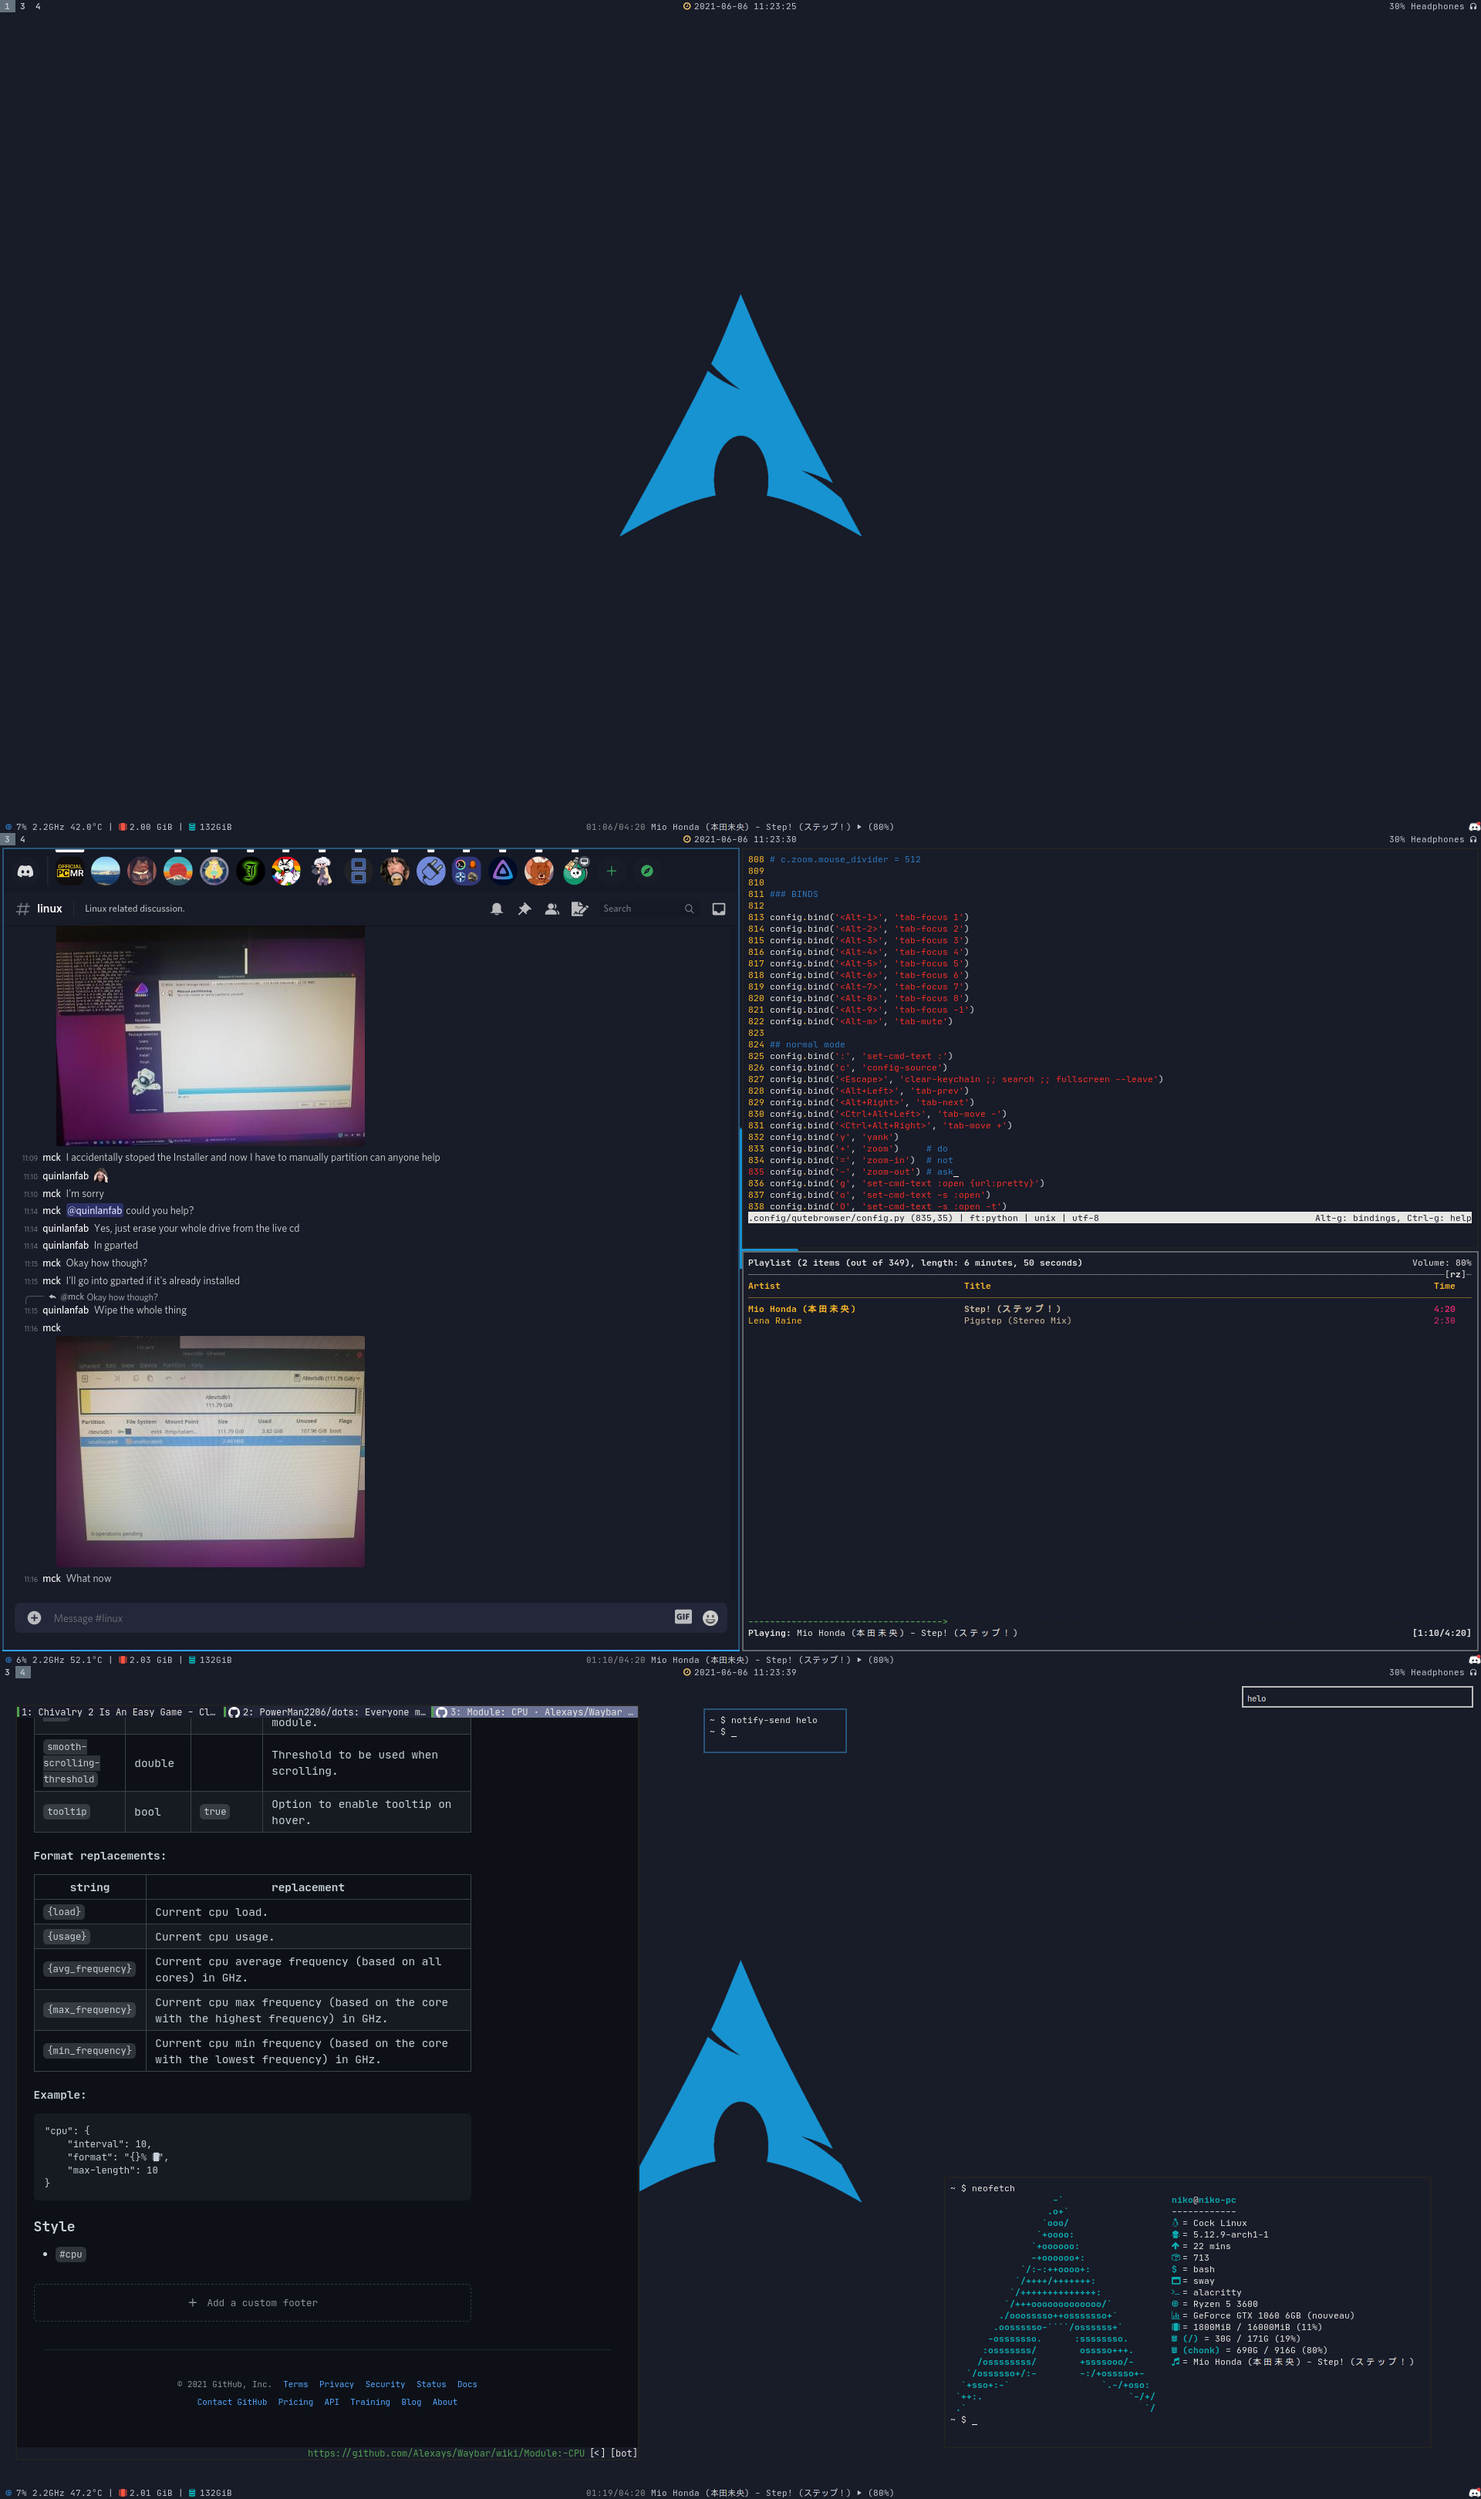
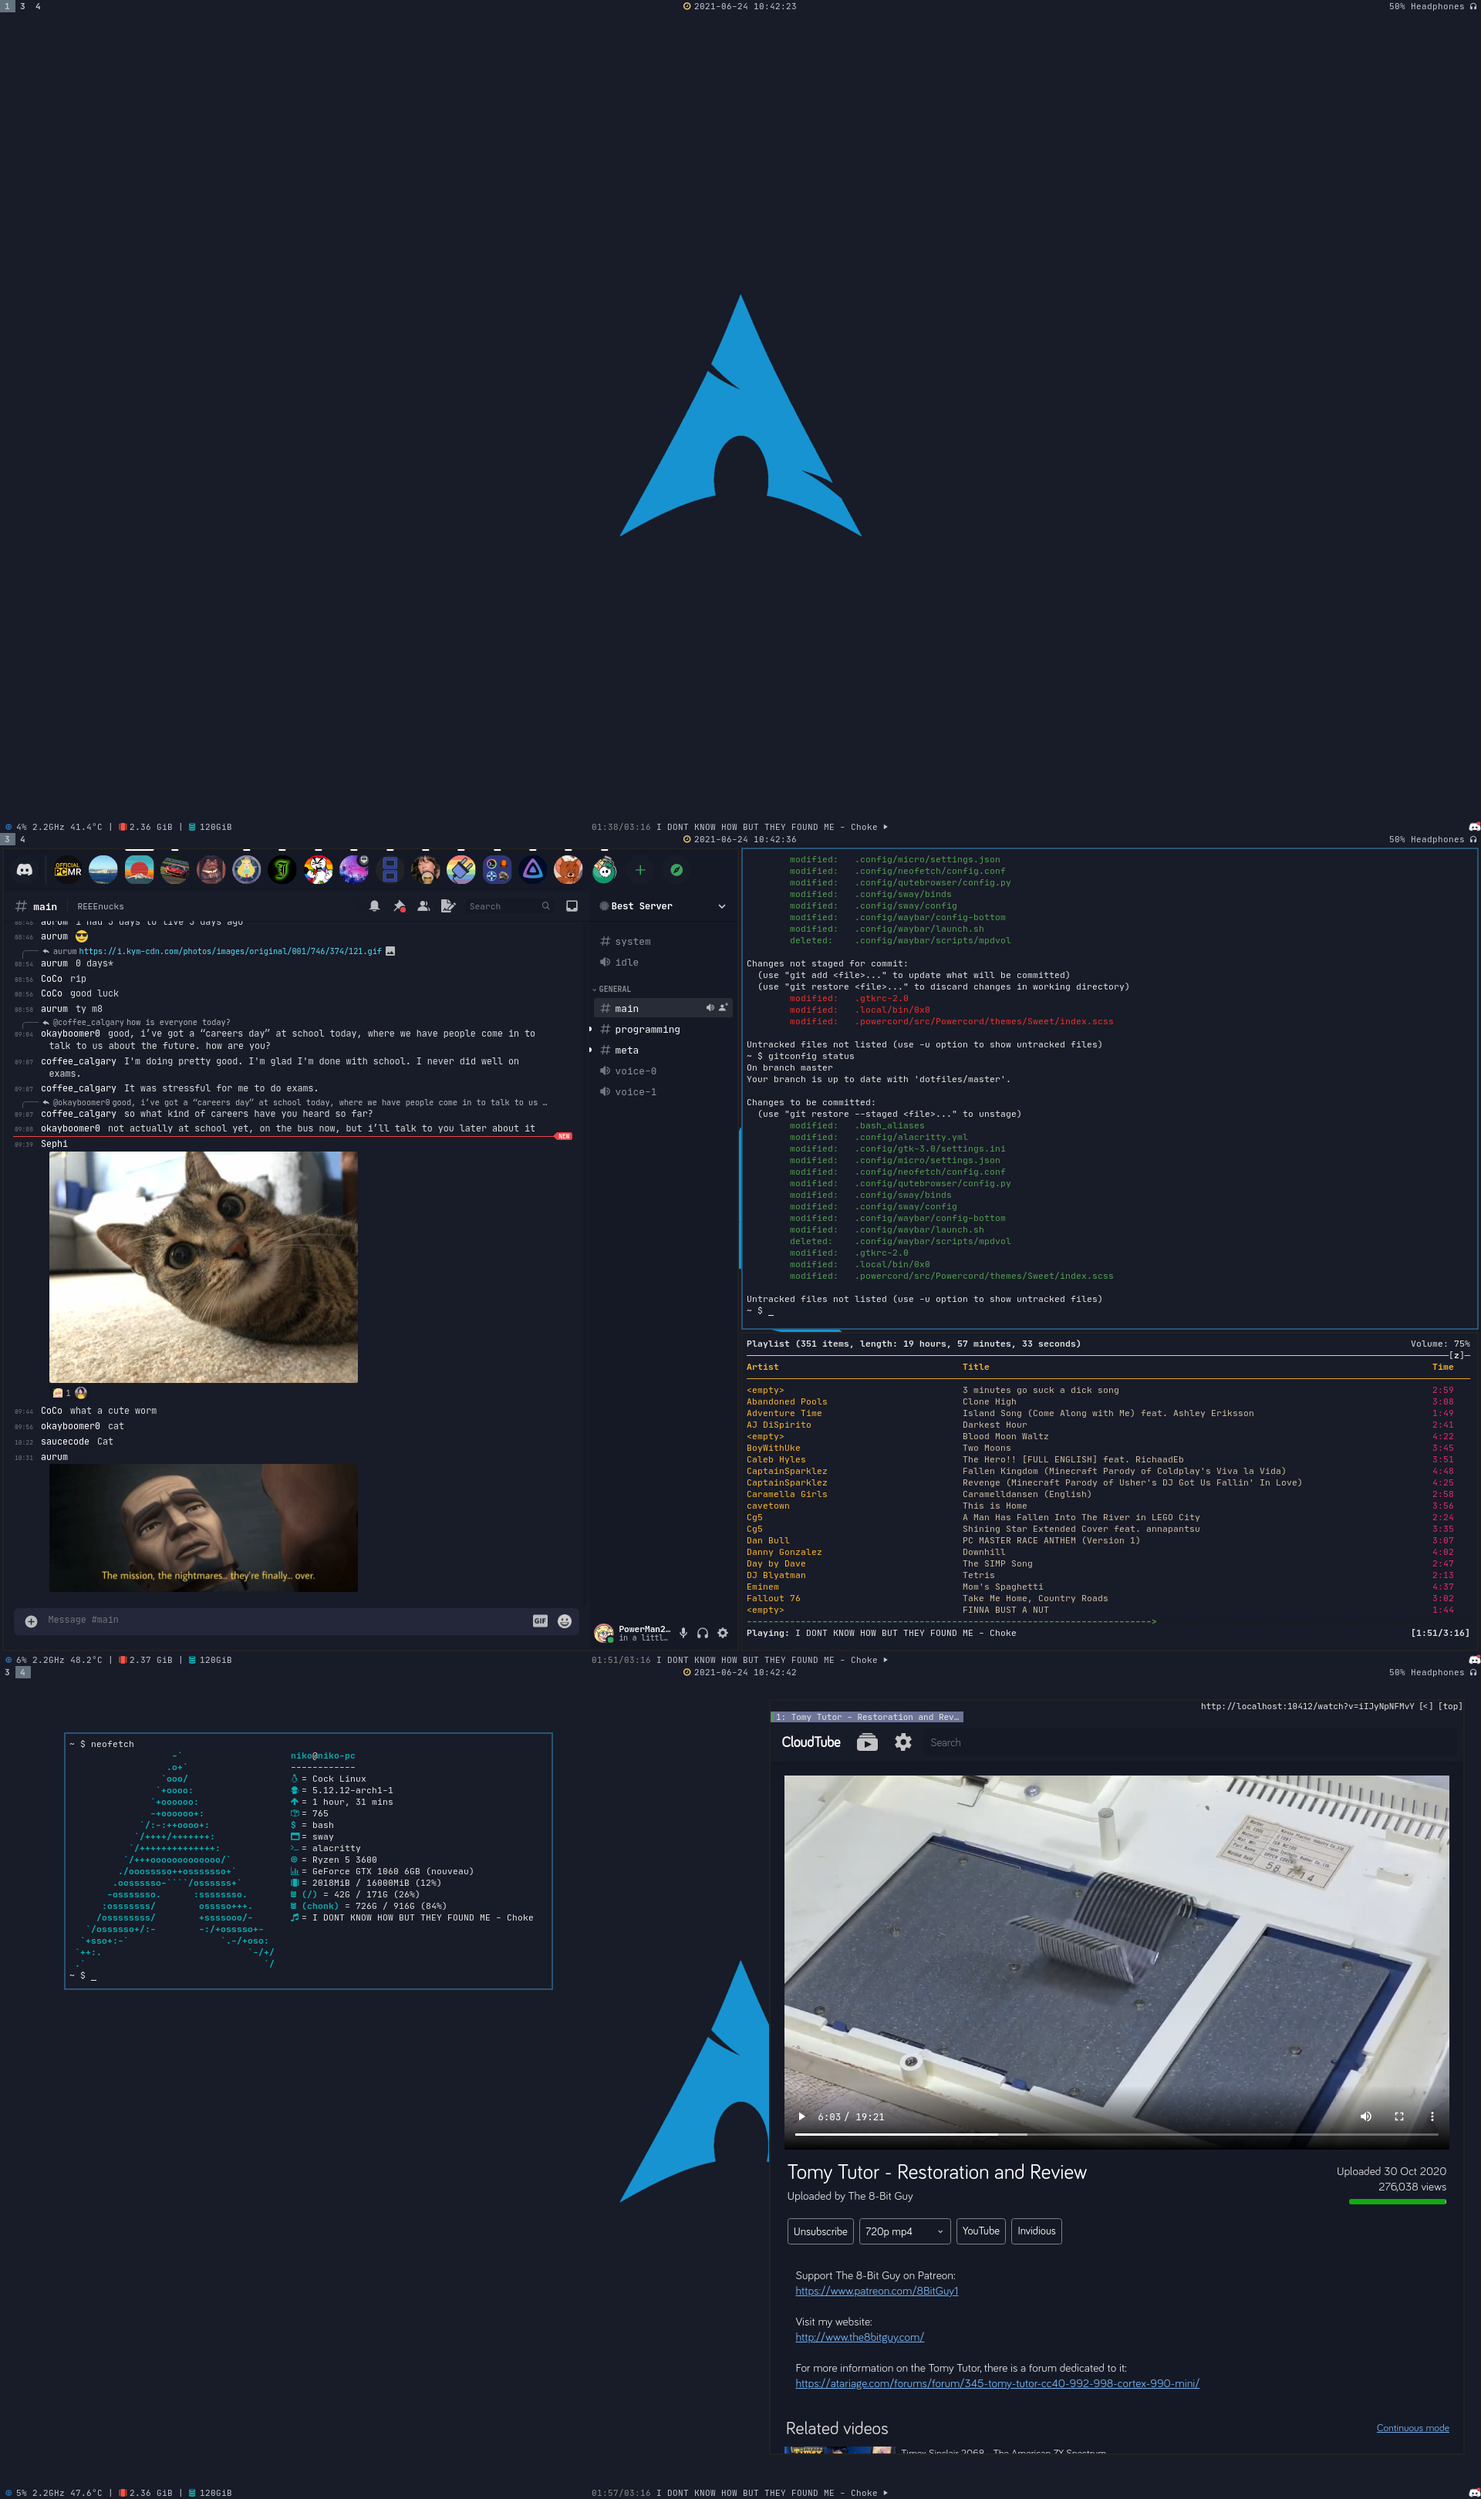
Added a bunch of stuff I was too lazy to do before

diff --git a/.powercord/src/Powercord/themes/Sweet/index.scss b/.powercord/src/Powercord/themes/Sweet/index.scss
@@ -5,17 +5,21 @@
 
 /* Horizontal server list stuff */
 :root {
-    --HSL-server-icon-size: 42px;  /* Size of the server icons | DEFAULT: 40px */
+    --HSL-server-icon-size: 48px;  /* Size of the server icons | DEFAULT: 40px */
     --HSL-server-spacing: 10px;  /* Spacing between each server icon | DEFAULT: 10px */	
 }
 
-/* Right channels 
+* {
+	font-family: monospace !important;
+}
+
+/* Right channels */
 .content-98HsJk > div:nth-child(2) {
 	order:-1;
 }
-*/
 
-/* Sliding channels */
+
+/* Sliding channels 
 .sidebar-2K8pFh {
 	width: 0px;
 }
@@ -27,6 +31,7 @@
 .sidebar-2K8pFh:hover {
 	width:240px;
 }
+*/
 
 /* Right servers 
 #app-mount .guilds-1SWlCJ {

diff --git a/.config/qutebrowser/config.py b/.config/qutebrowser/config.py
@@ -18,6 +18,30 @@ c.auto_save.interval = 10000 # time interval (ms) between auto-saves of config/c
 c.auto_save.session = True
 
 
+### REDIRECTING
+
+import qutebrowser.api.interceptor
+
+def rewrite(request: qutebrowser.api.interceptor.Request):
+    if request.request_url.host() == 'www.youtube.com': 
+        request.request_url.setScheme('http') 
+        request.request_url.setHost('localhost') 
+        request.request_url.setPort(10412)
+        try: 
+            request.redirect(request.request_url) 
+        except: 
+            pass
+
+    if request.request_url.host() == 'twitter.com': 
+        request.request_url.setHost('nitter.nixnet.services') 
+        try: 
+            request.redirect(request.request_url) 
+        except: 
+            pass
+    
+qutebrowser.api.interceptor.register(rewrite)
+
+
 ### COLORS
 
 # color vars
@@ -153,10 +177,10 @@ c.colors.statusbar.progress.bg = bg # background of the progress bar
 
 c.colors.webpage.bg = bg # empty webpages
 
-
+""" haha this is useless with darkreader
 ### DARK MODE
 
-c.colors.webpage.darkmode.enabled = True # render all web contents using a dark theme
+c.colors.webpage.darkmode.enabled = False # render all web contents using a dark theme
 
 ## which algorithm to use
 ##   - lightness-cielab: Modify colors by converting them to CIELAB color space and inverting the L value. Not available with Qt < 5.14.
@@ -191,7 +215,7 @@ c.colors.webpage.darkmode.policy.images = 'never'
 c.colors.webpage.darkmode.threshold.background = 128 # opposite of `colors.webpage.darkmode.threshold.text`
 ## threshold for inverting text with dark mode
 c.colors.webpage.darkmode.threshold.text = 128
-
+"""
 
 ### COMMAND/COMPLETION STUFF
 
@@ -213,7 +237,7 @@ c.completion.delay = 0
 # c.completion.favorite_paths = []
 
 ## height (px or % of the window) of the completion
-c.completion.height = '40%'
+c.completion.height = '39%' # wacky value but it looks nice
 
 ## minimum amount of characters needed to update completions
 c.completion.min_chars = 1
@@ -256,10 +280,10 @@ c.content.blocking.enabled = True # enable the ad/host blocker
 ##   - adblock: Use Brave's ABP-style adblocker
 ##   - hosts: Use hosts blocking
 ##   - both: Use both hosts blocking and Brave's ABP-style adblocker
-c.content.blocking.method = 'adblock'
+c.content.blocking.method = 'both'
 
 ## list of URLs to host blocklists for the host blocker 
-# c.content.blocking.hosts.lists = ['https://raw.githubusercontent.com/StevenBlack/hosts/master/hosts']
+c.content.blocking.hosts.lists = ['https://raw.githubusercontent.com/StevenBlack/hosts/master/hosts']
 
 ## list of URLs to ABP-style adblocking rulesets
 c.content.blocking.adblock.lists = ['https://easylist.to/easylist/easylist.txt', 'https://easylist.to/easylist/easyprivacy.txt']
@@ -270,7 +294,7 @@ c.content.blocking.adblock.lists = ['https://easylist.to/easylist/easylist.txt',
 ##   - `socks://`, `http://`, whatever
 ##   - system: Use the system wide proxy.
 ##   - none: Don't use any proxy
-c.content.proxy = 'none'
+#c.content.proxy = 'socks://localhost:9050'
 
 ## user agent to send
 # c.content.headers.user_agent = 'Mozilla/5.0 ({os_info}) AppleWebKit/{webkit_version} (KHTML, like Gecko) {qt_key}/{qt_version} {upstream_browser_key}/{upstream_browser_version} Safari/{webkit_version}'
@@ -336,7 +360,6 @@ c.content.local_content_can_access_file_urls = True
 c.content.local_content_can_access_remote_urls = False
 
 c.content.local_storage = True # enable support for HTML 5 local storage and Web SQL
-
 ## allow websites to request persistent storage quota via `navigator.webkitPersistentStorage.requestQuota`
 ##   - true
 ##   - false
@@ -449,7 +472,7 @@ c.downloads.remove_finished = 75000 # duration (ms) to wait before removing fini
 ### FONTS
 
 c.fonts.default_family = ["monospace"] # default font families to use
-c.fonts.default_size = '9pt' # default font size to use
+c.fonts.default_size = '11px' # default font size to use
 
 c.fonts.completion.category = 'bold default_size default_family' # completion categories
 c.fonts.completion.entry = 'default_size default_family' # completion widget
@@ -467,7 +490,7 @@ c.fonts.tabs.unselected = 'default_size default_family' # unselected tabs
 ## font families
 c.fonts.web.family.cursive = 'monospace' # cursive fonts
 c.fonts.web.family.fantasy = 'monospace' # fantasy fonts
-c.fonts.web.family.fixed = 'monospace' # fixed fonts
+c.fonts.web.family.fixed = 'monospace' # monospace fonts
 c.fonts.web.family.sans_serif = 'monospace' # sans-serif fonts
 c.fonts.web.family.serif = 'monospace' # serif fonts
 c.fonts.web.family.standard = 'monospace' # standard fonts
@@ -486,7 +509,7 @@ c.statusbar.padding = {'top': 0, 'bottom': 0, 'left': 0, 'right': 0} # padding (
 ## position of the status bar
 ##   - top
 ##   - bottom
-c.statusbar.position = 'bottom'
+c.statusbar.position = 'top'
 
 ## when to show the statusbar
 ##   - always: Always show the statusbar.
@@ -507,7 +530,7 @@ c.statusbar.widgets = ['keypress', 'url', 'history', 'scroll']#, 'progress']
 
 ## maximum/minimum width (px) of tabs 
 ## -1 for no maximum/default minimum size behaviour
-c.tabs.max_width = -1
+c.tabs.max_width = 250
 c.tabs.min_width = -1
 
 c.tabs.background = True # open new tabs (middleclick/ctrl+click) in the background
@@ -525,7 +548,7 @@ c.tabs.close_mouse_button = 'middle'
 ##   - ignore: Don't do anything.
 c.tabs.close_mouse_button_on_bar = 'new-tab' # not like I'm gonna use this lol
 
-c.tabs.favicons.scale = 1.2 # scaling factor for favicons in the tab bar
+c.tabs.favicons.scale = 1.0 # scaling factor for favicons in the tab bar
 
 ## when to show favicons in the tab bar
 ##   - always: Always show favicons.
@@ -535,7 +558,7 @@ c.tabs.favicons.show = 'always'
 
 c.tabs.focus_stack_size = -1 # maximum stack size to remember for tab switches, -1 for no maximum
 
-c.tabs.indicator.padding = {'top': 1, 'bottom': 1, 'left': 0, 'right': 3} # padding (px) for tab indicators
+c.tabs.indicator.padding = {'top': 1, 'bottom': 1, 'left': 1, 'right': 3} # padding (px) for tab indicators
 
 c.tabs.indicator.width = 3 # width (px) of the progress indicator, 0 to disable
 
@@ -584,7 +607,7 @@ c.tabs.position = 'top'
 ##   - prev: Select the tab which came before the closed one (left in horizontal, above in vertical).
 ##   - next: Select the tab which came after the closed one (right in horizontal, below in vertical).
 ##   - last-used: Select the previously selected tab.
-c.tabs.select_on_remove = 'prev'
+c.tabs.select_on_remove = 'next'
 
 ## when to show the tab bar
 ##   - always: Always show the tab bar.
@@ -668,7 +691,7 @@ c.logging.level.ram = 'debug'
 ##   - qt-quick: Tell Qt Quick to use a software renderer instead of OpenGL. (`QT_QUICK_BACKEND=software`)
 ##   - chromium: Tell Chromium to disable GPU support and use Skia software rendering instead. (`--disable-gpu`)
 ##   - none: Don't force software rendering.
-c.qt.force_software_rendering = 'chromium'
+c.qt.force_software_rendering = 'none'
 
 c.qt.highdpi = True # turn on Qt HighDPI scaling
 
@@ -810,19 +833,8 @@ c.zoom.levels = ['25%', '33%', '50%', '67%', '75%', '90%', '100%', '110%', '125%
 
 ### BINDS
 
-config.bind('<Alt-1>', 'tab-focus 1')
-config.bind('<Alt-2>', 'tab-focus 2')
-config.bind('<Alt-3>', 'tab-focus 3')
-config.bind('<Alt-4>', 'tab-focus 4')
-config.bind('<Alt-5>', 'tab-focus 5')
-config.bind('<Alt-6>', 'tab-focus 6')
-config.bind('<Alt-7>', 'tab-focus 7')
-config.bind('<Alt-8>', 'tab-focus 8')
-config.bind('<Alt-9>', 'tab-focus -1')
-config.bind('<Alt-m>', 'tab-mute')
-
 ## normal mode
-config.bind(':', 'set-cmd-text :')
+config.bind('<Ctrl+E>', 'set-cmd-text :') # I am evil
 config.bind('c', 'config-source')
 config.bind('<Escape>', 'clear-keychain ;; search ;; fullscreen --leave')
 config.bind('<Alt+Left>', 'tab-prev')
@@ -833,20 +845,19 @@ config.bind('y', 'yank')
 config.bind('+', 'zoom')     # do
 config.bind('=', 'zoom-in')  # not
 config.bind('-', 'zoom-out') # ask
-config.bind('g', 'set-cmd-text :open {url:pretty}')
-config.bind('o', 'set-cmd-text -s :open')
-config.bind('O', 'set-cmd-text -s :open -t')
+config.bind('e', 'set-cmd-text :open {url:pretty}')
+config.bind('g', 'greasemonkey-reload')
+config.bind('<Return>', 'set-cmd-text -s :open')
+config.bind('<Shift+Return>', 'set-cmd-text -s :open -t')
 config.bind('u', 'undo')
 config.bind('U', 'undo -w')
-config.bind('b', 'set-cmd-text -s :quickmark-load -t')
-config.bind('B', 'set-cmd-text -s :quickmark-load')
 config.bind('<Ctrl+B>', 'set-cmd-text -s :quickmark-add {url}')
 config.bind('x', 'set-cmd-text -s :tab-give')
 config.bind('h', 'history -t')
-config.bind('f', 'set-cmd-text /')
-config.bind('<Ctrl+F>', 'set-cmd-text ?')
-config.bind('n', 'search-next')
-config.bind('p', 'search-prev')
+config.bind('<Ctrl+F>', 'set-cmd-text /')
+config.bind('<Ctrl+Shift+F>', 'set-cmd-text ?')
+config.bind('<Ctrl+P>', 'search-prev')
+config.bind('<Ctrl+N>', 'search-next')
 config.bind('<Ctrl+A>', 'mode-enter caret ;; selection-toggle ;; move-to-end-of-document')
 config.bind('r', 'reload')
 config.bind('<Ctrl+R>', 'reload -f')
@@ -854,14 +865,26 @@ config.bind('<f11>', 'fullscreen')
 config.bind('<f12>', 'devtools right')
 config.bind('<Ctrl+Q>', 'quit')
 config.bind('n', 'open -w')
+config.bind('N', 'open -p')
 config.bind('<Ctrl+T>', 'open -t')
 config.bind('<Ctrl+D>', 'tab-clone')
-config.bind('<Ctrl+N>', 'open -p')
 config.bind('<Ctrl+Shift+W>', 'close')
 config.bind('<Ctrl+V>', 'mode-enter passthrough')
 config.bind('<Ctrl+W>', 'tab-close')
 config.bind('<Ctrl+Up>', 'scroll-to-perc 0')
 config.bind('<Ctrl+Down>', 'scroll-to-perc 100')
+config.bind('i', 'mode-enter insert')
+
+config.bind('<Alt-1>', 'tab-focus 1')
+config.bind('<Alt-2>', 'tab-focus 2')
+config.bind('<Alt-3>', 'tab-focus 3')
+config.bind('<Alt-4>', 'tab-focus 4')
+config.bind('<Alt-5>', 'tab-focus 5')
+config.bind('<Alt-6>', 'tab-focus 6')
+config.bind('<Alt-7>', 'tab-focus 7')
+config.bind('<Alt-8>', 'tab-focus 8')
+config.bind('<Alt-9>', 'tab-focus -1')
+config.bind('<Alt-m>', 'tab-mute')
 
 ## command mode
 config.bind('<Up>', 'completion-item-focus prev', mode='command')
